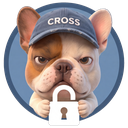
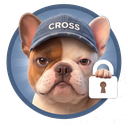
Одна поза, свечение, один масштаб предметов, запястье сбоку
Четыре замечания владельца на готовом паке, и все четыре — не сбой модели,
а то, чего в задании не было сказано вовсе.

**Поза.** Про положение тела в промпте не было ни слова, и модель решала
сама: где сидит, где стоит на задних лапах. Теперь он ПОРТРЕТ — голова
и верх груди, плашка его там и обрезает; тела, спины и задних лап не видно
никогда, и решать «сидит или стоит» не нужно, ни то ни другое в кадр
не попадает. Лапа, где нужна, поднимается снизу одна.

**Свечение.** Третья зона плашки была описана слишком мягко — «поле
светлеет к центру», — и половина иконок пришла с ровной заливкой. Теперь
это отдельное требование: за головой мягкое бледное сияние, гаснущее
наружу, одинаковой силы в каждой иконке.

**Масштаб предметов.** «Около трети диаметра» модель понимала всякий раз
по-своему. Размер привязан к тому, что есть в кадре: предмет ровно такой
высоты, какой ширины морда, и одинаков у галки, креста, замка, стрелки,
флажка, треугольника и лупы.

**Запястье у лап.** Моя ошибка в чтении: «как настоящее эмодзи» относилось
к крупности кадра, а я перенёс это и на направление руки, и запястье стало
входить сверху и снизу. Теперь у всех трёх оно слева, а переворачивается
сама ладошка — палец вверх и палец вниз это одна лапа, повёрнутая
в запястье.

Две ловушки нарезки, обе по факту брака:

* лист-полоса (одна колонка) обрастает рамкой: модель дважды нарисовала
  вокруг неё бордюр, и заливка фона за него не прошла — иконки приехали
[…]

diff --git a/иконки/generate.py b/иконки/generate.py
@@ -165,6 +165,10 @@ def grid_block(cells, cols, rows):
         "the SAME flat medium grey as the background inside the cells. Do NOT "
         "draw white lines between the cells, and no borders, no frames, no "
         "grid lines, no numbers, no captions and no labels anywhere.\n\n"
+        + ("The cells are one single strip. Do NOT draw a box or a frame "
+           "around the strip and do NOT draw lines down its sides: the plain "
+           "grey background runs unbroken to all four edges of the picture.\n\n"
+           if cols == 1 or rows == 1 else "")
         + "\n\n".join(lines)
         + "\n\nCHECK EVERY CELL BEFORE YOU FINISH. On a sheet of many cells "
           "these three are the first to go, and without them the icons are "
@@ -179,7 +183,14 @@ def grid_block(cells, cols, rows):
           "named for that cell, with the lighter field inside it.\n"
           "3. His head big enough that his ears and the crown of his cap reach "
           "the rim and are cut off by it. A small head with a ring of empty "
-          "colour above the cap is wrong."
+          "colour above the cap is wrong.\n"
+          "4. The soft pale glow behind his head in every badge. A badge of "
+          "one flat even colour is wrong.\n"
+          "5. The same portrait in every cell: head and the very top of the "
+          "chest, cut off there by the badge. No body, no hind legs, nobody "
+          "sitting and nobody standing.\n"
+          "6. Every object the same size as every other object across the "
+          "cells — as tall as his muzzle is wide."
     )
 
 

diff --git a/иконки/prompt-each.md b/иконки/prompt-each.md
@@ -86,9 +86,13 @@ warning triangle, an arrow — are fine where listed.
 
 THE OBJECT: where an object is listed, it is FLAT MATTE WHITE — pure white,
 whatever colour such a thing would normally be — so that it stays visible on
-any badge colour. It is about ONE THIRD of the diameter of the badge — big enough
-to read when the image is shrunk to 21 x 21 pixels, small enough that it never
-makes the head smaller and never makes him thinner. Simple and low on detail, a silhouette rather than
+any badge colour. ITS SIZE IS FIXED AND THE SAME IN EVERY IMAGE: exactly as tall as his muzzle
+is wide — measure it against his muzzle, not against the badge — which comes to
+about a third of the badge's diameter. Every object in the set is that size:
+the check mark, the cross, the padlock, the arrow, the flag, the warning
+triangle and the magnifying glass are all the same height as each other. It is
+big enough to read when the image is shrunk to 21 x 21 pixels, and small enough
+that it never makes the head smaller and never makes him thinner. Simple and low on detail, a silhouette rather than
 a drawing. It sits in the lower half of the badge beside the muzzle, in FRONT
 of him, and it may overlap his jowl or his chin; it never covers his eyes or
 his cap, it never pushes him back or down, and it is the ONLY extra object. Where nothing else is listed, the image contains the
@@ -114,9 +118,12 @@ makes it look like a badge at all:
 2. **A BRIGHT FIELD** just inside the rim, in the lighter, less saturated shade
    named below. The rim does not fade into it — it is a distinct band with
    a visible inner edge.
-3. **A PALER, SOFTER CENTRE** behind his head, where the field lightens and
-   desaturates so that it does not compete with him. The transition from the
-   bright field to the pale centre is smooth.
+3. **A GLOW BEHIND HIM.** Right behind his head and shoulders the colour
+   lifts into a soft pale halo, as if a light were shining on the badge from
+   behind him, fading smoothly outwards into the bright field. This glow is
+   NOT optional and NOT a flat lighter patch: without it the badge reads as
+   one dead flat colour. It is centred on him, brightest just behind his head,
+   and it is there in EVERY badge image, the same strength every time.
 
 So the colour runs vivid at the edge, bright next to it, pale behind the dog.
 Nothing else is drawn inside the circle: no rays, no spokes, no stripes,
@@ -125,9 +132,21 @@ no pattern, no white.
 THE CHARACTER IN THE BADGE: he is chubby, round-cheeked and cute, with heavy
 soft jowls, drawn at the same size and the same distance as in the attached
 images — head large in the frame, his cap and both ears reaching the rim of the
-badge, his chest and the tops of his front paws showing below his muzzle. Do
-NOT slim him down, do NOT tighten the crop around his face, do NOT zoom out and
-leave a ring of empty badge colour above his cap.
+badge. Do NOT slim him down, do NOT tighten the crop around his face, do NOT
+zoom out and leave a ring of empty badge colour above his cap.
+
+HE IS A PORTRAIT, AND THE SAME PORTRAIT IN EVERY IMAGE. You see his head and
+the very top of his chest, and the badge cuts him off there. That is ALL of him
+there ever is. You never see his body, his back, his belly, his hind legs, his
+shoulders standing up, or him sitting, standing, perched or leaning on
+anything: the picture simply ends at the top of his chest, the way a passport
+photograph ends. Do not decide for yourself whether he is sitting or standing —
+neither is visible, and both are wrong to show.
+
+Where a front paw is called for, ONLY that paw appears, raised up into the
+lower part of the badge from below the bottom of the picture, close beside his
+muzzle. No arm, no shoulder and no second paw come with it, and it never turns
+him into a standing figure.
 
 Where the line below does not start with BADGE, there is no badge at all: no
 circle, no rays, no gradient.
@@ -151,12 +170,17 @@ running across the picture and nothing running out to a side edge. If the stub
 is as long as the paw is tall, it is far too long. Zoom right in on the paw:
 the paw and the toes are the picture, the wrist is barely there.
 
-The wrist enters the way it does in the everyday emoji: for a thumbs-up from
-the BOTTOM edge, for a thumbs-down from the TOP edge. Everything else is
-identical in EVERY paw image — the same paw, the SAME SIZE, the same place in
-the frame, the same light. Measure it: the paw covers the same share of its
-frame in all of them, so that side by side on three buttons they look like one
-set. An object in the paw never makes the paw smaller.
+THE WRIST ALWAYS ENTERS FROM THE LEFT SIDE — in every paw image, including the
+thumbs-down. It never comes in from the top and never from the bottom. What
+turns over between thumbs-up and thumbs-down is the PAW ITSELF, rotated at the
+wrist: in the thumbs-up the outer toe points up and the pads face you, in the
+thumbs-down the same paw is rolled over so the outer toe points down. The
+little stub of wrist stays exactly where it is, at the left, in both.
+
+Everything else is identical in EVERY paw image — the same paw, the SAME SIZE,
+the same place in the frame, the same light. Measure it: the paw covers the
+same share of its frame in all of them, so that side by side on three buttons
+they look like one set. An object in the paw never makes the paw smaller.
 
 IT IS A DOG'S PAW AND NEVER A HAND. It is broad and chunky, with FOUR short
 thick rounded toes of roughly equal length and a big soft pad: the same cream
@@ -367,21 +391,21 @@ no label, no watermark, no border, no frame.
 
 | файл | `<ЯЧЕЙКА>` |
 |---|---|
-| `bully_ready` | `BADGE with a thick vivid rim #395B7A and a field of soft denim blue #6690B5. Cap dyed deeper slate blue #6A7A8C. Chin lifted high and proud, chest puffed out, a closed-mouth satisfied smile with the head tilted slightly back — pleased with himself, a job just finished. Both front paws rest on the lower rim of the badge. He is NOT waving and NOT raising a paw: that is the greeting icon, and these two must not look alike. No object.` |
+| `bully_ready` | `BADGE with a thick vivid rim #395B7A and a field of soft denim blue #6690B5. Cap dyed deeper slate blue #6A7A8C. Chin lifted high and proud, chest puffed out, a closed-mouth satisfied smile with the head tilted slightly back — pleased with himself, a job just finished. No paws are raised and nothing is held: he is NOT waving, that is the greeting icon, and these two must not look alike. No object.` |
 | `bully_done` | `BADGE with a thick vivid rim #40814C and a field of light sage green #95A67A. Cap dyed deeper green #698265. Eyes closed in a satisfied happy smile, a big flat WHITE check mark beside the muzzle in the lower half of the badge.` |
 | `bully_fail` | `BADGE with a thick vivid rim #86322D and a field of light warm red #CA6660. Cap dyed deeper red #A8504E. Sad apologetic face: mouth a small unhappy downturned line, eyebrows pulled up in the middle, head dipped slightly. The ears stay big and upright exactly as in the references, and the eyes stay exactly as in the references — huge, round, glossy, cartoon dark-brown with the same big white highlights. They are not realistic dog eyes, not watery, not teary, not narrowed. A big flat WHITE cross mark beside the muzzle in the lower half of the badge.` |
 | `bully_hi` | `BADGE with a thick vivid rim #395B7A and a field of soft denim blue #6690B5. Cap dyed deeper slate blue #6A7A8C. One front paw raised high beside the muzzle, pad forward, waving hello, big warm open smile with the tongue showing. The raised waving paw is what makes this one different from the proud icon. No object.` |
-| `bully_helpful` | `PAW. A big clear thumbs-up framed like the standard thumbs-up emoji: the paw seen from the side and filling the frame, the outer toe stretched straight UP like a thumb, the other toes curled in towards the pad. Only a short stub of wrist at the BOTTOM edge — no forearm, no leg. Nothing else in the image.` |
-| `bully_not_helpful` | `PAW. A big clear thumbs-down framed like the standard thumbs-down emoji: the SAME paw as the thumbs-up at the same size and in the same place, turned over — the outer toe stretched straight DOWN like a thumb, the other toes curled in towards the pad. Only a short stub of wrist at the TOP edge — no forearm, no leg. Nothing else in the image.` |
-| `bully_detail` | `PAW. The SAME paw at the SAME size and in the same place as the thumbs-up, holding a short thick yellow pencil clamped between two of its toes and pressed against the pad, tilted as if about to write — no fingers grip it. Only a short stub of wrist at the BOTTOM edge. There is NO paper, NO notepad and NO desk: the paw with the pencil fills the frame exactly as the other two paws do.` |
-| `bully_search` | `BADGE with a thick vivid rim #395B7A and a field of soft denim blue #6690B5. Cap dyed deeper slate blue #6A7A8C. Holding up a big magnifying glass with a thick flat WHITE rim and a white handle, at least half the diameter of the badge, in front of one eye; that eye hugely magnified through the clear lens, the other eye normal size, focused curious expression.` |
+| `bully_helpful` | `PAW. A big clear thumbs-up framed like the standard thumbs-up emoji: the paw seen from the side and filling the frame, the outer toe stretched straight UP like a thumb, the other toes curled in towards the pad. Only a tiny stub of wrist at the LEFT edge — no forearm, no leg. Nothing else in the image.` |
+| `bully_not_helpful` | `PAW. A big clear thumbs-down framed like the standard thumbs-down emoji: the SAME paw as the thumbs-up at the same size and in the same place, turned over — the outer toe stretched straight DOWN like a thumb, the other toes curled in towards the pad. The tiny stub of wrist stays at the LEFT edge, exactly where it is in the thumbs-up — it is the paw that is rolled over, not the arm. No forearm, no leg. Nothing else in the image.` |
+| `bully_detail` | `PAW. The SAME paw at the SAME size and in the same place as the thumbs-up, holding a short thick yellow pencil clamped between two of its toes and pressed against the pad, tilted as if about to write — no fingers grip it. Only a tiny stub of wrist at the LEFT edge. There is NO paper, NO notepad and NO desk: the paw with the pencil fills the frame exactly as the other two paws do.` |
+| `bully_search` | `BADGE with a thick vivid rim #395B7A and a field of soft denim blue #6690B5. Cap dyed deeper slate blue #6A7A8C. ONE front paw raised holding a big magnifying glass with a thick flat WHITE rim and a white handle in front of one eye; that eye hugely magnified through the clear lens, the other eye normal size, focused curious expression.` |
 | `bully_high` | `BADGE with a thick vivid rim #40814C and a field of light sage green #95A67A. Cap dyed deeper green #698265. Calm confident closed-mouth smile, eyes bright and steady, head straight. Nothing else in the image at all: no object, no raised paws, no symbol. The green badge is the whole signal.` |
 | `bully_mid` | `BADGE with a thick vivid rim #AD6B25 and a field of light amber #DDA060. Cap dyed deeper amber #C28B48. Head tilted to one side, one eyebrow raised higher than the other, mouth a small wavy unsure line. Both ears stay big and upright. Nothing else in the image at all: no object, no raised paws, no symbol.` |
 | `bully_none` | `BADGE with a thick vivid rim #86322D and a field of light warm red #CA6660. Cap dyed deeper red #A8504E. Eyes lowered, mouth a small sad apologetic line, head dipped. Both ears stay big and upright. Nothing else in the image at all: no object, no raised paws, no symbol.` |
-| `bully_unknown` | `BADGE with a thick vivid rim #426183 and a field of cool blue-grey #7E93AB, clearly BLUE-grey and never a neutral, flat or silver grey. Cap dyed plain washed-out grey #808790. Washed out and unpainted. Completely blank puzzled expression, both eyebrows raised high, mouth slightly open, eyes wide and empty. Nothing else in the image at all: no object, no raised paws, no symbol.` |
-| `bully_flag` | `BADGE with a thick vivid rim #86322D and a field of light warm red #CA6660. Cap dyed deeper red #A8504E. Alarmed wide-open eyes, mouth open mid-bark, holding up a WHITE pennant beside the muzzle: a clear TRIANGLE of white cloth on a short white pole, pointing away from him, about a third of the diameter of the badge. It is a triangular signal flag, NOT a rectangle, NOT a square, NOT a sheet of paper, NOT a napkin.` |
+| `bully_unknown` | `BADGE with a thick vivid rim #426183 and a field of cool blue-grey #7E93AB, clearly BLUE-grey and never a neutral, flat or silver grey. Cap dyed plain washed-out grey #808790. Washed out and unpainted. Puzzled, at a loss: both eyebrows raised high, mouth slightly open, head tilted a little to one side. His eyes are the SAME as in the approved icon — huge, round, glossy, dark brown, with the same big white highlights and the same dark pupils looking straight at you. Do NOT draw blank eyes, white eyes, rolled-back eyes or eyes without pupils. Nothing else in the image at all: no object, no raised paws, no symbol.` |
+| `bully_flag` | `BADGE with a thick vivid rim #86322D and a field of light warm red #CA6660. Cap dyed deeper red #A8504E. Alarmed wide-open eyes, mouth open mid-bark, one front paw raised beside the muzzle holding up a WHITE pennant: a clear TRIANGLE of white cloth on a short white pole, pointing away from him. It is a triangular signal flag, NOT a rectangle, NOT a square, NOT a sheet of paper, NOT a napkin.` |
 | `bully_warn` | `BADGE with a thick vivid rim #AD6B25 and a field of light amber #DDA060. Cap dyed deeper amber #C28B48. Worried expression, mouth a flat tense line, both ears still big and upright. A big flat WHITE warning triangle with a bold dark exclamation mark inside it beside the muzzle, at least half the diameter of the badge.` |
-| `bully_lock` | `BADGE with a thick vivid rim #395B7A and a field of soft denim blue #6690B5. Cap dyed deeper slate blue #6A7A8C. Holding a big closed flat WHITE padlock, at least half the diameter of the badge, up just under the chin in both front paws, stern serious expression, one eyebrow raised.` |
+| `bully_lock` | `BADGE with a thick vivid rim #395B7A and a field of soft denim blue #6690B5. Cap dyed deeper slate blue #6A7A8C. ONE front paw raised beside the muzzle holding up a big closed flat WHITE padlock, stern serious expression, one eyebrow raised.` |
 | `bully_expert` | `BADGE with a thick vivid rim #395B7A and a field of soft denim blue #6690B5. Cap dyed deeper slate blue #6A7A8C. Head turned slightly to one side, one front paw raised pointing off to that side, a big bold flat WHITE arrow beside the muzzle pointing the same way, at least half the diameter of the badge.` |
 
 Цвета не словами, а числом. Прогон 04.09 показал, зачем: на `GREEN`, `RED`
@@ -536,61 +560,91 @@ no label, no watermark, no border, no frame.
 ## Что пришло с прогона 2026-09-07 (листами)
 
 Пак собран тремя листами: две шестёрки с плашкой и лист из трёх лап.
-Три оплаченные картинки вместо пятнадцати. `check_pack.py` ошибок не даёт.
+Три оплаченные картинки на прогон вместо пятнадцати.
 
-**Сколько ячеек влезает в лист — выяснено, а не выбрано.** На двенадцати
-модель теряет мелочи: надпись CROSS пропала со всех кепок, рамка стала
-тонкой, морда отъехала от ободка. Чек-лист в конце промпта не помог, второй
-прогон дал то же. На шести всё держится, на четырёх рамка выходит даже
-толще. Отсюда шесть — потолок для этого пака.
+**Шесть ячеек — потолок.** На двенадцати модель теряет мелочи: надпись CROSS
+пропала со всех кепок, рамка плашки стала тонкой, морда отъехала от ободка.
+Чек-лист в конце промпта не помог, второй прогон дал то же. На шести всё
+держится, на четырёх рамка выходит даже толще.
 
-**Якорь работает, только если он единственный референс.** С двумя портретами
-`bulli-ref.png` и `bully-style-ref.png` впереди принятая иконка шла третьей,
-и плашку модель рисовала по описанию, а не по ней: тонкий контур вместо
-толстой рамки, у `bully_none` снова повисли уши. С `--no-ref --anchor` —
-эталонная рамка, стоячие уши, крупная морда. Два портрета без плашки
-перевешивали одну с плашкой.
+**Якорь работает, только когда он единственный референс.** С `bulli-ref.png`
+и `bully-style-ref.png` впереди принятая иконка шла третьей, и плашку модель
+рисовала по описанию словами: тонкий контур вместо толстой рамки, у одной
+иконки снова повисли уши. Два портрета без плашки перевешивали одну с плашкой.
+С `--no-ref --anchor` пришли и рамка, и поза, и уши.
 
-**Слом стиля никуда не делся.** Лист A на одном из прогонов пришёл плоским
-мультиком: шерсти нет, заливка ровная. Запрет `Do NOT turn him into a 2D
-illustration` в промпте стоял. Перекат тем же промптом дал нормальный 3D,
-то есть это не описание виновато, а случайность прогона.
+### Четыре дырки в задании, найденные владельцем на готовом паке
 
-Ловится это глазом по контактному листу, но есть и ранний признак, дешевле:
-**размер сырого листа.** Плоский сжался в 5.3 МБ, оба нормальных — в 8.2
-и 8.4. Разница в полтора раза, и видна она до нарезки. Меркой фактуры это
-не ловится: замер по нарезанным 128 px дал у плоских 27.7–31.4, у нормальных
-30.4–34.0 — диапазоны перекрываются, потому что уменьшение до 128 съедает
-как раз ту шерсть, которая их различает.
+Все четыре — не сбой модели, а то, чего в задании не было сказано вовсе.
 
-**Мерка различимости перекалибрована второй раз, и снова потому, что
-наказывала за улучшение.** Кольцо 0.62–0.97 забирало в себя уши: морда стала
-крупнее — шерсти в кольце прибавилось, и расстояния просели (зелёный
-со сине-серым сошлись с 44 до 39, хотя цвета РАЗОШЛИСЬ). Кольцо прижато
-к ободку (0.80–0.99), где морды нет, и порог взят из полной матрицы пака:
-пары одного цвета по замыслу доходят до 36, пары разных цветов начинаются
-с 38. Правило на будущее: **мерку проверяют на паке, который заведомо хорош.**
-Если она ругается тем сильнее, чем лучше пак, мерка не та.
+1. **Позы разные: где сидит, где стоит на задних лапах.** Про положение тела
+   в промпте не было ни слова, и модель решала сама. Теперь сказано: он
+   ПОРТРЕТ — голова и самый верх груди, плашка его там и обрезает. Тела,
+   спины, задних лап не видно никогда, и решать «сидит или стоит» не надо:
+   ни то, ни другое в кадр не попадает. Лапа, где нужна, поднимается снизу
+   одна, без плеча и без второй.
 
-Что ещё поправлено этим прогоном:
+2. **Свечения от бульдожки нет у половины.** Третья зона плашки была описана
+   как «поле светлеет к центру» — слишком мягко, и выходила ровная заливка.
+   Теперь это отдельное требование: за головой мягкое бледное сияние, как
+   от лампы позади, гаснущее наружу; оно есть в каждой иконке и одинаковой
+   силы.
 
-* **Лапы кадрированы как настоящее эмодзи** — одна ладошка во весь кадр,
-  от ноги короткий обрубок запястья, снизу у пальца вверх и сверху у пальца
-  вниз. Было пол-руки через весь кадр. Размер у всех трёх один: блокнот
-  у `bully_detail` убран, он съедал место и делал лапу мельче соседних.
-* **`bully_ready` и `bully_hi` разведены позой.** Оба синие и без предмета,
-  и модель рисовала обоим одно и то же — машущую лапу. Теперь `ready` —
-  гордая поза с лапами на ободке и закрытой улыбкой, `hi` — машет лапой
-  с высунутым языком.
-* **Сине-серый углублён** с `#8DA3B8` до `#7E93AB`: со светло-зелёным
-  светофора он расходился на 44 при пороге 45.
+3. **Предметы разного масштаба.** «Около трети диаметра плашки» модель
+   понимала всякий раз по-своему. Теперь размер привязан к тому, что есть
+   в самом кадре: предмет ровно такой высоты, какой ширины морда, и это
+   одинаково у галки, креста, замка, стрелки, флажка, треугольника и лупы.
 
-Что осталось известным и допущено:
+4. **У лап запястье выходило сверху и снизу.** Это моя ошибка в чтении:
+   «как настоящее эмодзи» относилось к КРУПНОСТИ кадра, а я перенёс это
+   и на направление руки. Запястье у всех трёх входит СЛЕВА, а переворачивается
+   сама ладошка — палец вверх и палец вниз это одна лапа, повёрнутая
+   в запястье.
 
-* `bully_unknown` даёт 10 % нейтрально-серого — это его светло-серая кепка,
-  а не остаток фона. Проверка про это предупреждает и будет предупреждать.
+### Две ловушки нарезки на листах
+
+* **Лист-полоса (1 колонка) обрастает рамкой.** На листе лап модель дважды
+  нарисовала вокруг полосы бордюр: сначала линии по бокам, потом каждую
+  ячейку светлым прямоугольником на тёмном фоне. Заливка фона идёт от края
+  и за такую границу не проходит — иконка приезжает серым квадратом.
+  В `grid_block` добавлен отдельный запрет для полосы, а нарезка полосы
+  делается с `--inset 4`: полтора процента по умолчанию бордюр не срезают.
+
+* **Слом стиля в плоский мультик** случился ещё раз, на одном листе из трёх,
+  при том же промпте; перекат тем же промптом дал нормальный 3D. Ловится
+  глазом по контактному листу, а до нарезки — по размеру сырого файла:
+  плоский сжался в 5.3 МБ против 8.2–8.4 у нормальных. Меркой фактуры
+  не ловится: на 128 px диапазоны плоских и нормальных перекрываются.
+
+### Мерка различимости перекалибрована второй раз
+
+И снова потому, что наказывала за улучшение. Кольцо 0.62–0.97 забирало в себя
+уши: морда стала крупнее — шерсти в кольце прибавилось, расстояния просели
+(зелёный со сине-серым сошлись с 44 до 39, хотя цвета РАЗОШЛИСЬ). Кольцо
+прижато к ободку (0.80–0.99), где морды нет; порог взят из полной матрицы
+пака — пары одного цвета по замыслу доходят до 36, разных начинаются с 38.
+
+**Правило: мерку проверяют на заведомо хорошем паке. Если она ругается тем
+сильнее, чем пак лучше, — мерка не та.**
+
+### Что осталось известным
+
+* `bully_unknown` взят из отдельного прогона: в основном листе у него вышли
+  пустые белые глаза (слово `blank` в подстановке перевесило прямой запрет).
+  В его прогоне морда чуть худее остальных — на 21 px не видно, в списке
+  эмодзи видно. Чинится перекатом листа B, пока не сойдётся и то, и другое.
+* `bully_lock` и `bully_unknown` на 7 px мельче соседей.
 * `bully_lock` и `bully_expert` синие оба: по замыслу, разводятся белым
   замком и белой стрелкой.
+* `bully_unknown` даёт 9 % нейтрально-серого — это его светло-серая кепка,
+  а не остаток фона.
+
+### Не затирать хорошее
+
+Дважды за прогон я потерял годную картинку тем, что перекатывал её в тот же
+файл: `--force` пишет поверх, и когда новая приходит хуже, вернуть нечего.
+Перекат в НОВЫЙ файл (`lapy-2.png`, `b6-2.png`) стоит столько же, а выбор
+остаётся. Так и делать.
 
 ## Прогон
 
